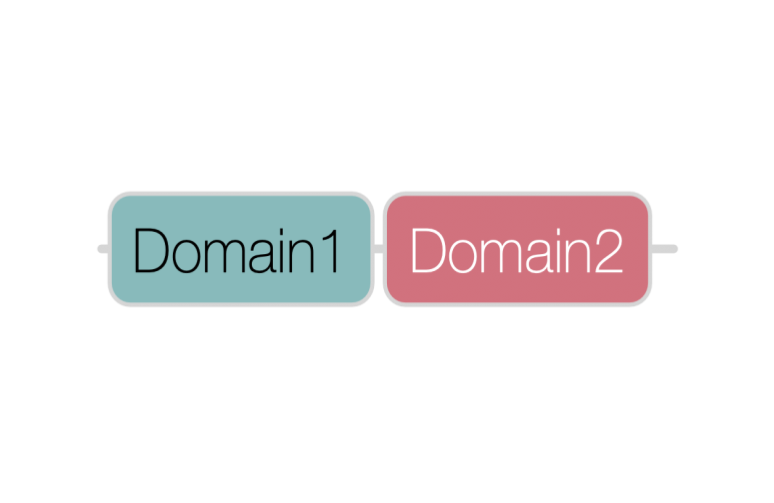
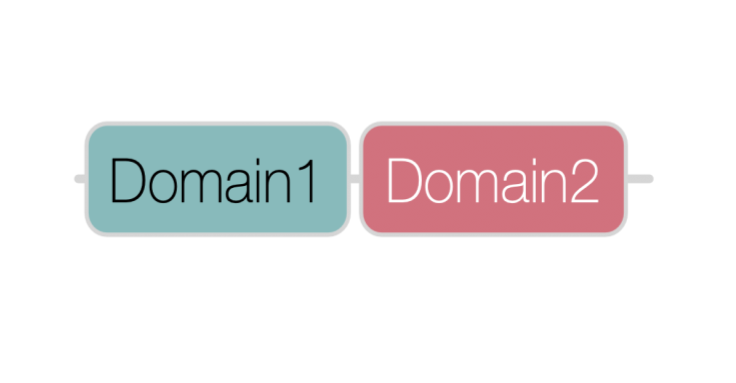
Update app

Changed region(s): [[0.0938, 0.3159, 0.9062, 0.6319]]

diff --git a/evolvr/components.css b/evolvr/components.css
@@ -83,7 +83,7 @@
 	-webkit-transform: scale(1.05); 
 	-ms-transform: scale(1.05);
 	transform: scale(1.05); 
- 	z-index: 9999;
+ 	/*z-index: 9999;*/
 }
 
 
@@ -96,9 +96,10 @@
 }
 
 .sub-diagram-button {
-	position: relative;
-	/*position: absolute;*/
-	top:0;
+	/*position: relative;*/
+	position: absolute;
+	top:0%;
+	right: 0%;
 	width: 100%; 
 	height: 100%;
 	opacity: 0;
@@ -125,6 +126,7 @@
 	/*position: absolute;*/
 	width: 100%;
 	text-align: center;
+	color: grey;
 }
 .arrow-d {
 	transform: rotate(90deg);
